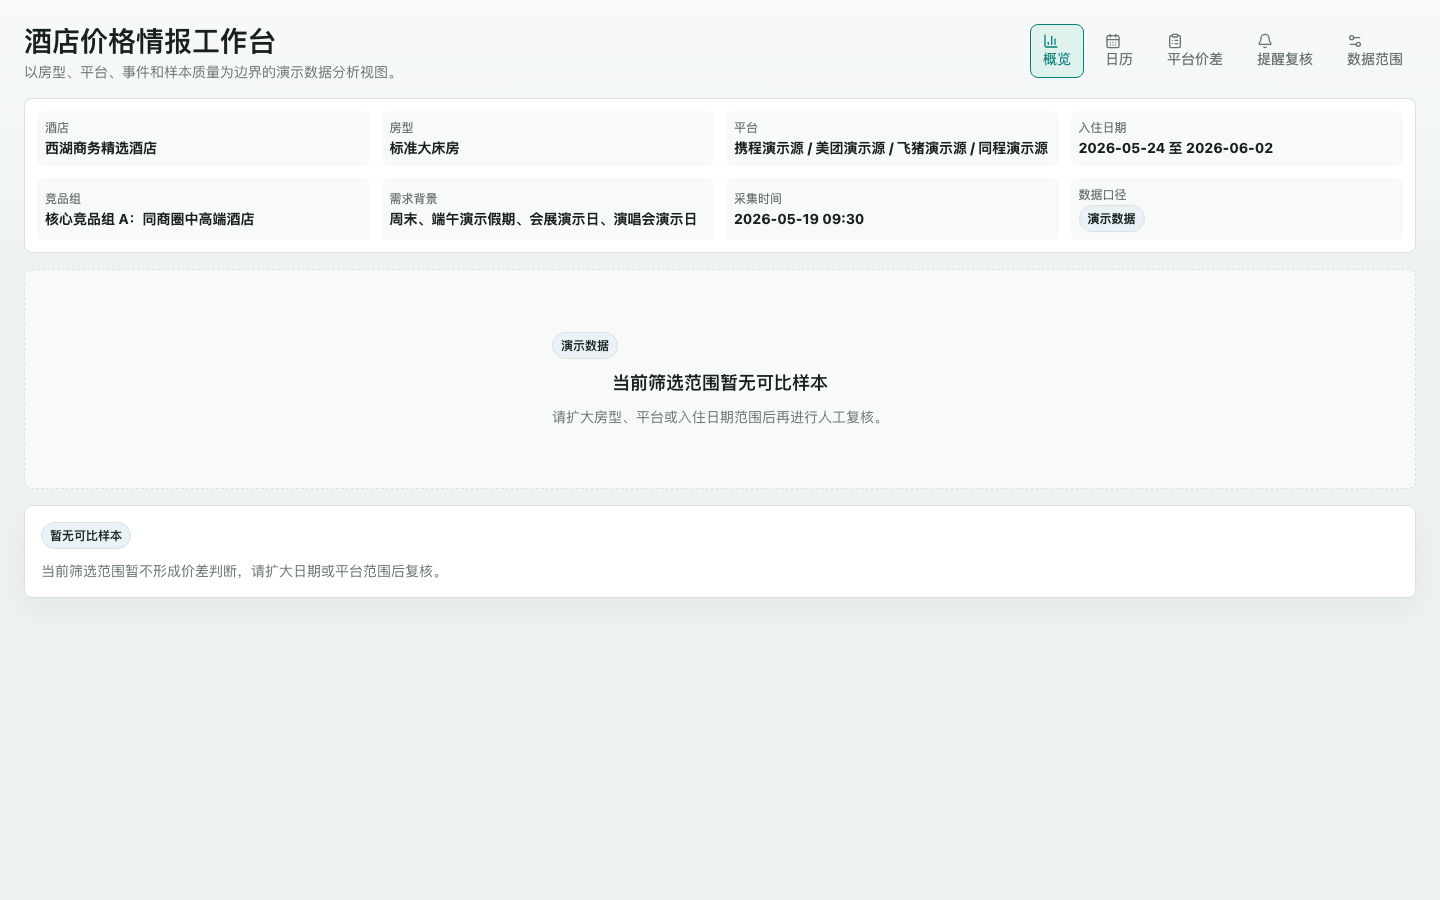
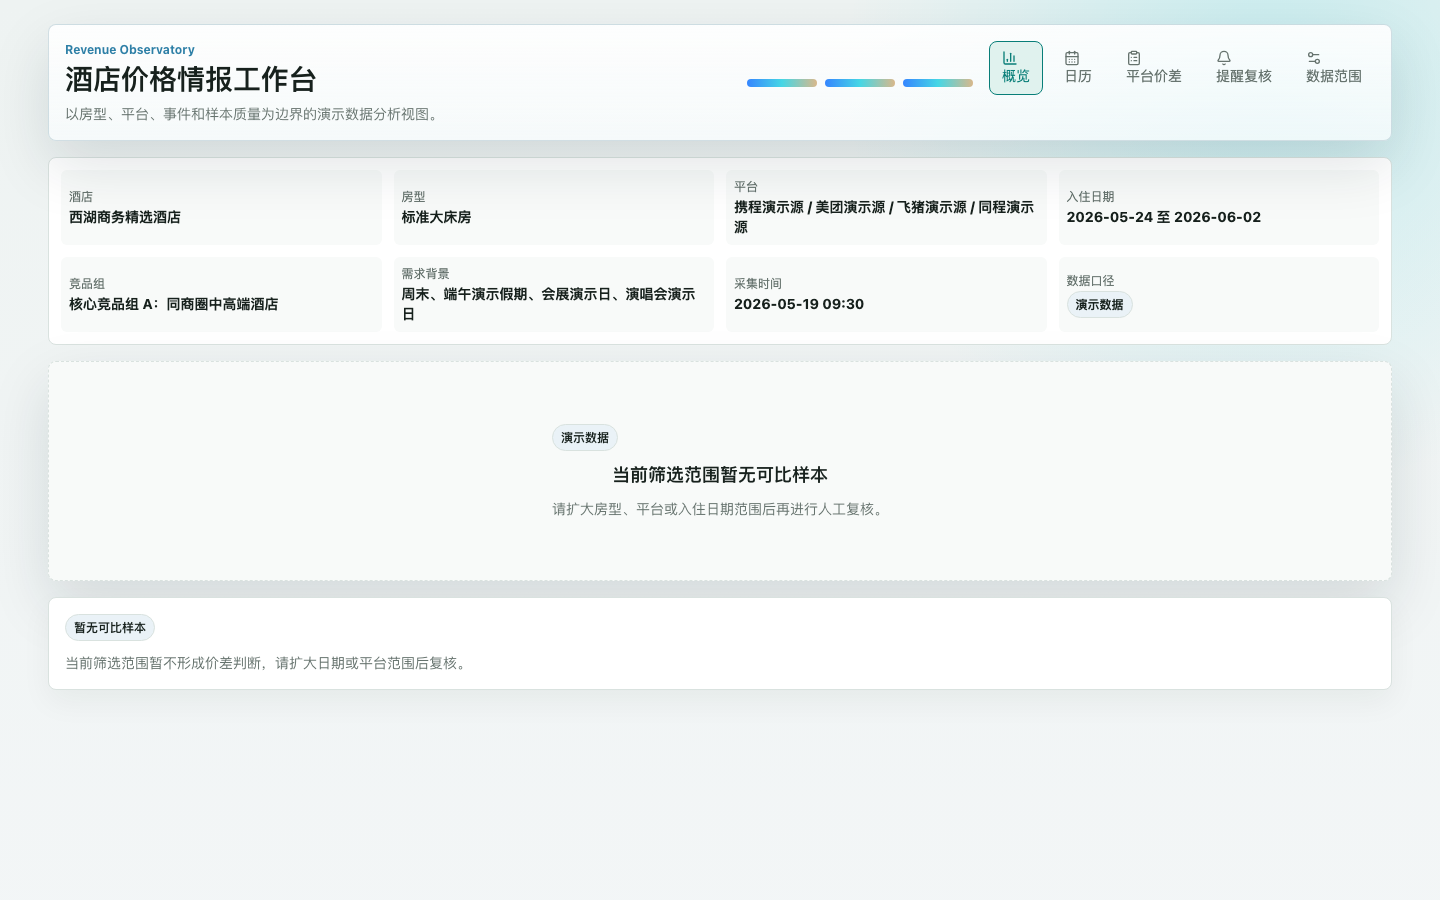
test: add observatory screenshot gates

diff --git a/app/tests/e2e/app-foundation.spec.ts b/app/tests/e2e/app-foundation.spec.ts
@@ -15,7 +15,12 @@ const cases = [
   ['alert-review-drawer-open--1440x900.png', '/?screen=alerts&state=drawer-open', { width: 1440, height: 900 }],
   ['alert-review-drawer-open--390x844.png', '/?screen=alerts&state=drawer-open', { width: 390, height: 844 }],
   ['setup-data-scope--1280x800.png', '/?screen=setup&state=normal', { width: 1280, height: 800 }],
-  ['setup-data-scope--768x1024.png', '/?screen=setup&state=normal', { width: 768, height: 1024 }]
+  ['setup-data-scope--768x1024.png', '/?screen=setup&state=normal', { width: 768, height: 1024 }],
+  ['overview-observatory--2048x1352.png', '/?screen=overview&state=normal', { width: 2048, height: 1352 }],
+  ['calendar-observatory--2048x1352.png', '/?screen=calendar&state=detail-open', { width: 2048, height: 1352 }],
+  ['market-observatory--2048x1352.png', '/?screen=market&state=normal', { width: 2048, height: 1352 }],
+  ['alert-review-observatory--2048x1352.png', '/?screen=alerts&state=drawer-open', { width: 2048, height: 1352 }],
+  ['setup-observatory--2048x1352.png', '/?screen=setup&state=normal', { width: 2048, height: 1352 }]
 ] as const;
 
 const forbiddenVisibleTerms = ['自动调价', '自动改价', '爬虫', '抓取', 'cookie', '验证码', 'token'];
@@ -32,10 +37,18 @@ for (const [filename, path, viewport] of cases) {
   test(`captures ${filename} without overflow or forbidden visible copy`, async ({ page }) => {
     await page.setViewportSize(viewport);
     await page.goto(path);
+    await expect(page.locator('.app-shell[data-visual-system="revenue-observatory"]')).toBeVisible();
+    await expect(page.locator('.observatory-screen').first()).toBeVisible();
     await expect(page.getByText(/演示数据/).first()).toBeVisible();
 
     const overflow = await page.evaluate(() => document.documentElement.scrollWidth - document.documentElement.clientWidth);
     expect(overflow).toBeLessThanOrEqual(8);
+
+    const chartCount = await page.locator('.chart-frame').count();
+    const expectsChartFrame = path.includes('screen=calendar') || path.includes('screen=market') || path.includes('screen=overview&state=normal');
+    if (expectsChartFrame) {
+      expect(chartCount).toBeGreaterThan(0);
+    }
 
     const visibleText = await page.locator('body').innerText();
     for (const term of forbiddenVisibleTerms) {

diff --git a/app/src/styles/layout.css b/app/src/styles/layout.css
@@ -742,11 +742,11 @@
   grid-template-columns: repeat(2, minmax(0, 1fr));
 }
 
-[data-visual-system="revenue-observatory"] {
+.setup-observatory[data-visual-system="revenue-observatory"] {
   position: relative;
 }
 
-[data-visual-system="revenue-observatory"]::before {
+.setup-observatory[data-visual-system="revenue-observatory"]::before {
   position: absolute;
   inset: -10px;
   z-index: -1;
